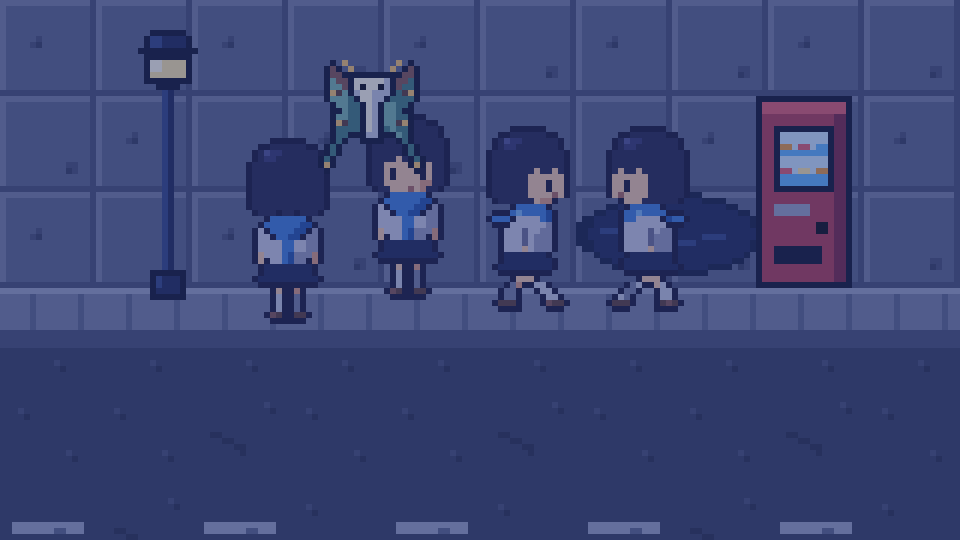
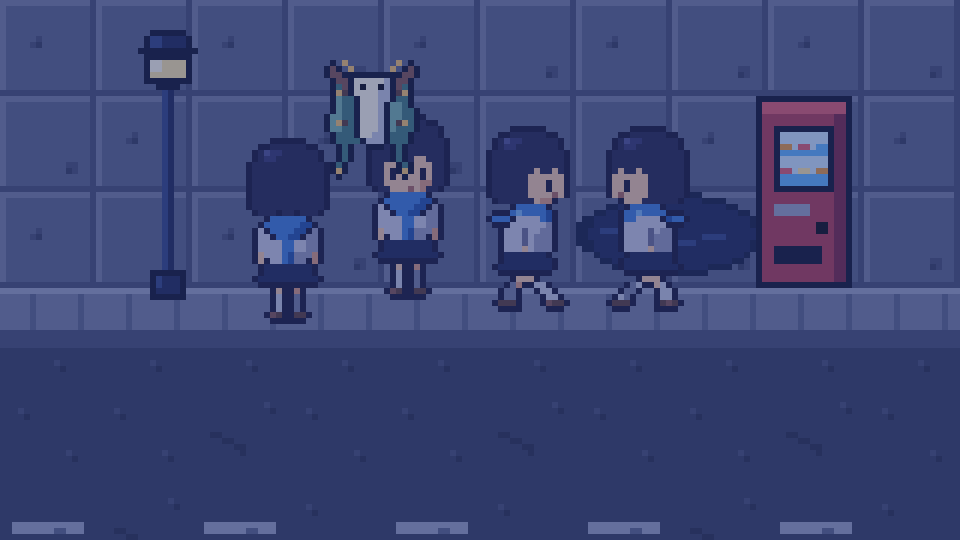
Reshape Nemu's wings to match the real Japanese luna moth
Forewings are now triangles with a near-horizontal costa (red-brown band), a
pointed apex and an outer margin slanting inwards; hindwings are rounded
shapes below them, separated by a 1-dot line, with slender tails hanging
almost straight down. In-game frames follow the same shape.

Claude-Session: https://claude.ai/code/session_0173agm7cY3duSnSYvLNCKVr

Changed region(s): [[0.3125, 0.1481, 0.4375, 0.3259]]

diff --git a/Tools/Art/nemu.py b/Tools/Art/nemu.py
@@ -32,6 +32,8 @@ KEY = {
     "O": "night1",   # 輪郭
     "W": "moth2",    # 羽（淡い青緑）
     "w": "moth1",    # 羽の影（自動）
+    "H": "moth2",    # 後ろ羽（色は前羽と同じ。前羽との境目に輪郭を入れるため記号を分ける）
+    "h": "moth1",    # 後ろ羽の影（自動）
     "v": "moth1",    # 羽の筋
     "L": "moth3",    # 羽のつや（前羽の帯の下）
     "C": "brown2",   # 前羽の前のふちの赤茶の帯
@@ -48,7 +50,9 @@ KEY = {
     "m": "brown1",   # 口
 }
 
-WING = set("WwvLCcyMS")   # 羽の部品（影の判定で「同じ部品」とみなす）
+WING = set("WwHhvLCcyMS")   # 羽の部品
+FORE = set("WwLCvcyMS")     # 前羽（影の判定で「同じ部品」とみなす）
+HIND = set("HhvcyMS")       # 後ろ羽と尾
 FUR = set("FfEem")
 
 
@@ -70,8 +74,10 @@ def shade(rows, fur_d=2):
     for y in range(h):
         for x in range(w):
             ch = grid[y][x]
-            if ch == "W" and at(x + 2, y + 2) not in WING:
+            if ch == "W" and at(x + 2, y + 2) not in FORE:
                 out[y][x] = "w"
+            elif ch == "H" and at(x + 2, y + 2) not in HIND:
+                out[y][x] = "h"
             elif ch == "F" and at(x + fur_d, y + fur_d) not in FUR:
                 out[y][x] = "f"
     return ["".join(r) for r in out]
@@ -92,71 +98,71 @@ def to_image(rows):
 # ================================================================ ゲーム内（20x20、4 コマ）
 # 左半分（10 列）。右端の列が体の中心。y = 目玉模様の黄、S = その暗い点、y（尾の先）
 SPRITE_HALVES = {
-    "spread": [  # 羽を広げる
-        "...A......",
-        "....A.....",
-        "OO...AOOOO",
-        "OCCO..OFFF",
-        "OWCCOOOFEF",
-        "OWWCCCOFFF",
-        "OWySWWCOFF",
-        "OWWWWWWWOF",
-        ".OWWWWWWOF",
-        "..OOWWWWOF",
-        "..OWWWWWOF",
-        ".OWWySWWOF",
-        ".OWWWWWWOF",
-        "..OWWWWWOF",
-        "..OWWOOOOO",
-        ".OWWO.....",
-        ".OWO......",
-        "OWO.......",
-        "OyO.......",
-        "OO........",
-    ],
-    "up": [  # 羽を上げる（横から見ると細くなる）
-        "..OO.A....",
-        "..OCO.A...",
-        "..OCCOOOOO",
-        "..OWCCOFFF",
-        "..OWWCOFEF",
-        "..OySWOFFF",
-        "..OWWWWOOF",
-        "...OWWWWOF",
-        "...OOWWWOF",
-        "...OWWWWOF",
-        "...OySWWOF",
-        "...OWWWWOF",
-        "...OWWOOOF",
-        "...OWO..OO",
-        "..OWO.....",
-        "..OWO.....",
-        ".OWO......",
-        ".OyO......",
-        ".OO.......",
-        "..........",
-    ],
-    "down": [  # 羽を下げる（尾が外へふれる）
+    "spread": [  # 羽を広げる：前羽の前のふち（帯）はほぼ真横、尾はほぼまっすぐ下
         "...A......",
         "....A.....",
         ".....AOOOO",
-        "OOOO..OFFF",
-        "OCCCOOOFEF",
-        "OWWCCCOFFF",
-        "OWySWWWOFF",
-        "OWWWWWWWOF",
-        "OWWWWWWOOF",
-        ".OOWWWWWOF",
-        "..OWWWWWOF",
-        "..OWySWWOF",
-        "..OWWWWWOF",
-        "...OWWWWOF",
+        "OOOOOOOFFF",
+        "OCCCCCOFEF",
+        "OWWWWCCOFF",
+        ".OWySWWOFF",
+        "..OWWWWOFF",
+        "...OWWWOFF",
+        "..OOWWWOFF",
+        ".OWWWWWOFF",
+        ".OWWySWOFF",
+        ".OWWWWWOFF",
+        "..OWWWWOOF",
+        "...OWWWOOO",
+        "....OWWO..",
+        "....OWO...",
+        "....OWO...",
+        "...OWO....",
+        "...OyO....",
+    ],
+    "up": [  # 羽を上げる（前羽の先が上を向き、横から見ると細くなる）
+        "..OO.A....",
+        "..OCO.A...",
+        "..OCCOOOOO",
+        "...OCCOFFF",
+        "...OWCOFEF",
+        "...OySOFFF",
+        "...OWWOOFF",
+        "...OWWWOFF",
+        "..OOWWWOFF",
+        "..OWWWWOFF",
+        "..OWySWOFF",
+        "..OWWWWOFF",
+        "...OWWWOFF",
+        "...OWWWOOF",
+        "....OWO.OO",
+        "....OWO...",
+        "....OWO...",
+        "...OWO....",
+        "...OyO....",
+        "...OO.....",
+    ],
+    "down": [  # 羽を下げる（前羽の先が下を向く）
+        "...A......",
+        "....A.....",
+        ".....AOOOO",
+        "......OFFF",
+        "...OOOOFEF",
+        ".OOCCCOFFF",
+        "OCCWWWCOFF",
+        "OWWySWWOFF",
+        ".OWWWWWOFF",
+        "..OOWWWOFF",
+        ".OWWWWWOFF",
+        ".OWWySWOFF",
+        ".OWWWWWOFF",
+        "..OWWWWOOF",
         "...OWWOOOO",
-        "..OWWO....",
-        "..OWO.....",
-        ".OWO......",
-        ".OyO......",
-        ".OO.......",
+        "...OWWO...",
+        "....OWO...",
+        "...OWO....",
+        "...OyO....",
+        "...OO.....",
     ],
 }
 
@@ -238,13 +244,16 @@ def curve(p0, p1, p2, steps=30):
 
 
 # 左側の図形（右側は反転して作る）
-FOREWING = [(22, 15), (17, 11), (11, 7), (5, 4), (1, 3), (0, 5), (2, 9), (3, 14), (4, 19), (7, 23),
-            (12, 25), (18, 25), (22, 22)]
-COSTA = [(23, 13), (17, 9), (11, 5), (5, 2), (1, 2), (1, 4), (5, 5), (11, 8), (17, 12), (23, 16)]   # 赤茶の帯
-COSTA_LIGHT = [(17, 11), (11, 7), (5, 4), (6, 9), (11, 12), (15, 15)]   # 帯のすぐ下のつや（帯との間に 1 列の羽の色を残さない）
-HINDWING = [(22, 22), (16, 24), (10, 27), (6, 31), (6, 35), (9, 37), (13, 37), (17, 35), (21, 31), (23, 27)]
-TAIL_OUTER = ((6, 33), (0, 40), (3, 47))
-TAIL_INNER = ((12, 37), (5, 41), (5, 47))
+# 実物のオオミズアオ（標本の、羽を広げた形）に合わせる
+# 前羽：前のふち（赤茶の帯）は体からほぼ真横にのび、先はとがる。外のふちは先から内側へななめに下がる三角形
+FOREWING = [(22, 13), (15, 11), (8, 9), (2, 7), (0, 8), (1, 11), (3, 15), (6, 20), (9, 24), (12, 26),
+            (17, 25), (22, 21)]
+COSTA = [(23, 12), (15, 10), (8, 8), (2, 6), (0, 7), (1, 9), (8, 11), (15, 13), (23, 15)]   # 赤茶の帯
+COSTA_LIGHT = [(16, 12), (8, 10), (2, 8), (3, 12), (9, 13), (15, 15)]   # 帯のすぐ下のつや（帯との間に 1 列の羽の色を残さない）
+# 後ろ羽：前羽の下にのぞく、丸みのある大きな三角形。下のふちから長い尾がほぼまっすぐ下へ
+HINDWING = [(22, 20), (15, 23), (10, 26), (8, 30), (9, 34), (12, 37), (17, 37), (21, 33), (23, 27)]
+TAIL_OUTER = ((12, 35), (9, 42), (11, 48))
+TAIL_INNER = ((16, 36), (13, 42), (13, 48))
 
 EYESPOT = [   # 目玉模様（5x4）：赤茶の縁・黄色の輪・透けた窓（窓は左上）
     ".cc..",
@@ -303,19 +312,19 @@ MOUTHS = {
 def portrait(expression):
     gr = Grid()
     # ---- 左半分：後ろ羽と尾 → 前羽 → 帯 → 目玉模様 → 羽の筋
-    gr.poly(HINDWING, "W")
+    gr.poly(HINDWING, "H")
     outer, inner = curve(*TAIL_OUTER), curve(*TAIL_INNER)
-    gr.poly(outer + inner[::-1], "W")
+    gr.poly(outer + inner[::-1], "H")
     gr.dots([(x, y) for (x, y) in outer + inner if y >= 45], "y")        # 尾の先の黄色いふち
-    gr.poly([(1, 46), (7, 46), (7, 47), (1, 47)], "y", only={"W"})
+    gr.poly([(7, 46), (15, 46), (15, 47), (7, 47)], "y", only={"H"})
     gr.poly(FOREWING, "W")
     gr.poly(COSTA, "C", only={"W"})
     gr.poly(COSTA_LIGHT, "L", only={"W"})
-    gr.dots(curve((19, 18), (12, 15), (5, 15)), "v", only={"W"})        # 羽の筋（体から外へ）
-    gr.dots(curve((19, 21), (13, 21), (8, 22)), "v", only={"W"})
-    gr.dots(curve((20, 28), (15, 29), (10, 31)), "v", only={"W"})
-    gr.stamp(EYESPOT, 7, 13)    # 前羽の目玉模様
-    gr.stamp(EYESPOT, 12, 29)   # 後ろ羽の目玉模様
+    gr.dots(curve((20, 17), (12, 15), (4, 12)), "v", only={"W"})        # 羽の筋（体から外へ）
+    gr.dots(curve((20, 20), (14, 20), (8, 21)), "v", only={"W"})
+    gr.dots(curve((20, 27), (16, 29), (12, 33)), "v", only={"H"})
+    gr.stamp(EYESPOT, 9, 15)    # 前羽の目玉模様（羽のまん中より少し前のふち寄り）
+    gr.stamp(EYESPOT, 12, 28)   # 後ろ羽の目玉模様
     gr.mirror_left()
 
     # ---- 体（白いふわふわ）：胸 → おなか → 頭（毛のかたまりでふちを波形に）
@@ -358,11 +367,28 @@ def portrait(expression):
     gr.stamp(["".join(r) for r in right], 25, 12)
     gr.stamp(MOUTHS[expression], 22, 19)
 
-    # ---- 陰影 → 部品の境目と外側の輪郭
-    rows = shade(gr.rows())
+    # ---- 前羽と後ろ羽の境目 → 陰影 → 毛と羽の境目 → 外側の輪郭
+    rows = fore_hind_line(gr.rows())
+    rows = shade(rows)
     rows = inner_lines(rows)
     img = to_image(rows)
     return outline(img)
+
+
+def fore_hind_line(rows):
+    """後ろ羽のうち、前羽に接する所を 1 ドットの輪郭にする（2 枚の羽が重なって見えるように）。"""
+    grid = [list(r) for r in rows]
+    h, w = len(grid), len(grid[0])
+    out = [r[:] for r in grid]
+    for y in range(h):
+        for x in range(w):
+            if grid[y][x] != "H":
+                continue
+            for nx, ny in ((x + 1, y), (x - 1, y), (x, y + 1), (x, y - 1)):
+                if 0 <= nx < w and 0 <= ny < h and grid[ny][nx] in "WLC":
+                    out[y][x] = "O"
+                    break
+    return ["".join(r) for r in out]
 
 
 def inner_lines(rows):

diff --git a/Tools/Art/report/pixel_report.md b/Tools/Art/report/pixel_report.md
@@ -20,10 +20,10 @@
 | Characters/Grandma/grandma_idle_1.png | 12 |  | 0 | 2/7 | 1 | 1.9 | 0.0 |  | あごの肌の帯は口まわりの形。2 コマ目の右肩の影は手との境目 |
 | Characters/Keeper/keeper_idle_0.png | 14 |  | 0 | 4/14 | 0 | 1.8 | 0.0 |  | 顔の帯（めがね・口ひげ・鼻のまわり）は形の細部で、陰影の帯ではない |
 | Characters/Keeper/keeper_idle_1.png | 14 |  | 0 | 4/13 | 0 | 2.2 | 0.0 |  | 顔の帯（めがね・口ひげ・鼻のまわり）は形の細部で、陰影の帯ではない |
-| Characters/Nemu/nemu_fly_0.png | 9 |  | 0 | 7/29 | 1 | 4.3 | 0.0 |  | オオミズアオの模様（前羽の赤茶の帯・目玉模様・尾の先の黄色）と細い体は模様・形で、陰影の帯ではない |
-| Characters/Nemu/nemu_fly_1.png | 9 |  | 0 | 4/18 | 2 | 5.7 | 0.0 |  | オオミズアオの模様（前羽の赤茶の帯・目玉模様・尾の先の黄色）と細い体は模様・形で、陰影の帯ではない |
-| Characters/Nemu/nemu_fly_2.png | 9 |  | 0 | 7/29 | 1 | 4.3 | 0.0 |  | オオミズアオの模様（前羽の赤茶の帯・目玉模様・尾の先の黄色）と細い体は模様・形で、陰影の帯ではない |
-| Characters/Nemu/nemu_fly_3.png | 9 |  | 0 | 3/17 | 1 | 4.4 | 0.0 |  | オオミズアオの模様（前羽の赤茶の帯・目玉模様・尾の先の黄色）と細い体は模様・形で、陰影の帯ではない |
+| Characters/Nemu/nemu_fly_0.png | 9 |  | 0 | 6/33 | 0 | 4.0 | 0.0 | warm | オオミズアオの模様（前羽の赤茶の帯・目玉模様・尾の先の黄色）と細い体は模様・形で、陰影の帯ではない |
+| Characters/Nemu/nemu_fly_1.png | 9 |  | 0 | 2/8 | 4 | 5.4 | 0.0 |  | オオミズアオの模様（前羽の赤茶の帯・目玉模様・尾の先の黄色）と細い体は模様・形で、陰影の帯ではない |
+| Characters/Nemu/nemu_fly_2.png | 9 |  | 0 | 6/33 | 0 | 4.0 | 0.0 | warm | オオミズアオの模様（前羽の赤茶の帯・目玉模様・尾の先の黄色）と細い体は模様・形で、陰影の帯ではない |
+| Characters/Nemu/nemu_fly_3.png | 9 |  | 0 | 6/29 | 2 | 5.0 | 0.0 |  | オオミズアオの模様（前羽の赤茶の帯・目玉模様・尾の先の黄色）と細い体は模様・形で、陰影の帯ではない |
 | Characters/Ruri/ruri_idle_down_0.png | 16 |  | 0 | 1/3 | 1 | 1.8 | 0.0 |  | 顔の肌の帯（目と髪のあいだ・あご）、口・マフラーのつや・靴のつやの点は形の細部で、陰影の帯や AA ではない |
 | Characters/Ruri/ruri_idle_down_1.png | 16 |  | 0 | 1/3 | 1 | 1.8 | 0.0 |  | 顔の肌の帯（目と髪のあいだ・あご）、口・マフラーのつや・靴のつやの点は形の細部で、陰影の帯や AA ではない |
 | Characters/Ruri/ruri_idle_down_2.png | 16 |  | 0 | 1/3 | 1 | 1.2 | 0.0 |  | 顔の肌の帯（目と髪のあいだ・あご）、口・マフラーのつや・靴のつやの点は形の細部で、陰影の帯や AA ではない |
@@ -101,10 +101,10 @@
 | Faces/face_grandma_teary.png | 9 |  | 0 | 1/3 | 1 | 0.2 | 0.0 |  | 目・口・めがね・口ひげなどの顔の細部（形の線）は陰影の帯ではない |
 | Faces/face_keeper_normal.png | 11 |  | 0 | 4/16 | 1 | 0.2 | 0.0 |  | 目・口・めがね・口ひげなどの顔の細部（形の線）は陰影の帯ではない |
 | Faces/face_keeper_smile.png | 11 |  | 0 | 4/16 | 1 | 0.2 | 0.0 |  | 目・口・めがね・口ひげなどの顔の細部（形の線）は陰影の帯ではない |
-| Faces/face_nemu_happy.png | 11 |  | 0 | 20/94 | 7 | 0.4 | 0.0 | warm | 目・口・めがね・口ひげなどの顔の細部（形の線）は陰影の帯ではない ／ 目玉模様の縁・羽の筋・触角の羽毛・前羽の帯は模様で、陰影の帯ではない |
-| Faces/face_nemu_normal.png | 11 |  | 0 | 24/108 | 7 | 0.6 | 0.0 | warm | 目・口・めがね・口ひげなどの顔の細部（形の線）は陰影の帯ではない ／ 目玉模様の縁・羽の筋・触角の羽毛・前羽の帯は模様で、陰影の帯ではない |
-| Faces/face_nemu_sleepy.png | 11 |  | 0 | 21/99 | 7 | 0.4 | 0.0 | warm | 目・口・めがね・口ひげなどの顔の細部（形の線）は陰影の帯ではない ／ 目玉模様の縁・羽の筋・触角の羽毛・前羽の帯は模様で、陰影の帯ではない |
-| Faces/face_nemu_surprised.png | 11 |  | 0 | 21/97 | 7 | 0.6 | 0.0 | warm | 目・口・めがね・口ひげなどの顔の細部（形の線）は陰影の帯ではない ／ 目玉模様の縁・羽の筋・触角の羽毛・前羽の帯は模様で、陰影の帯ではない |
+| Faces/face_nemu_happy.png | 11 |  | 0 | 20/87 | 10 | 0.7 | 0.0 | warm | 目・口・めがね・口ひげなどの顔の細部（形の線）は陰影の帯ではない ／ 目玉模様の縁・羽の筋・触角の羽毛・前羽の帯は模様で、陰影の帯ではない |
+| Faces/face_nemu_normal.png | 11 |  | 0 | 24/101 | 10 | 0.9 | 0.0 | warm | 目・口・めがね・口ひげなどの顔の細部（形の線）は陰影の帯ではない ／ 目玉模様の縁・羽の筋・触角の羽毛・前羽の帯は模様で、陰影の帯ではない |
+| Faces/face_nemu_sleepy.png | 11 |  | 0 | 21/92 | 10 | 0.7 | 0.0 | warm | 目・口・めがね・口ひげなどの顔の細部（形の線）は陰影の帯ではない ／ 目玉模様の縁・羽の筋・触角の羽毛・前羽の帯は模様で、陰影の帯ではない |
+| Faces/face_nemu_surprised.png | 11 |  | 0 | 21/90 | 10 | 0.9 | 0.0 | warm | 目・口・めがね・口ひげなどの顔の細部（形の線）は陰影の帯ではない ／ 目玉模様の縁・羽の筋・触角の羽毛・前羽の帯は模様で、陰影の帯ではない |
 | Faces/face_ruri_gentle.png | 13 |  | 0 | 1/3 | 1 | 0.1 | 0.0 |  | 目・口・めがね・口ひげなどの顔の細部（形の線）は陰影の帯ではない |
 | Faces/face_ruri_normal.png | 14 |  | 0 | 1/3 | 1 | 0.2 | 0.0 |  | 目・口・めがね・口ひげなどの顔の細部（形の線）は陰影の帯ではない |
 | Faces/face_ruri_sad.png | 14 |  | 0 | 1/3 | 1 | 0.2 | 0.0 |  | 目・口・めがね・口ひげなどの顔の細部（形の線）は陰影の帯ではない |
